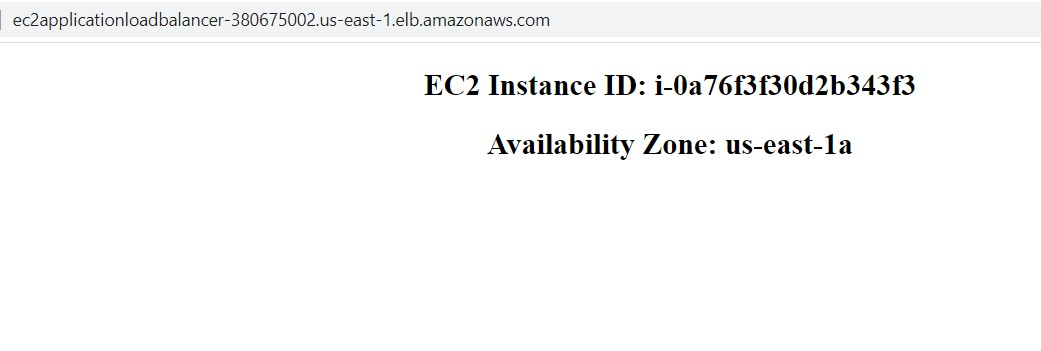
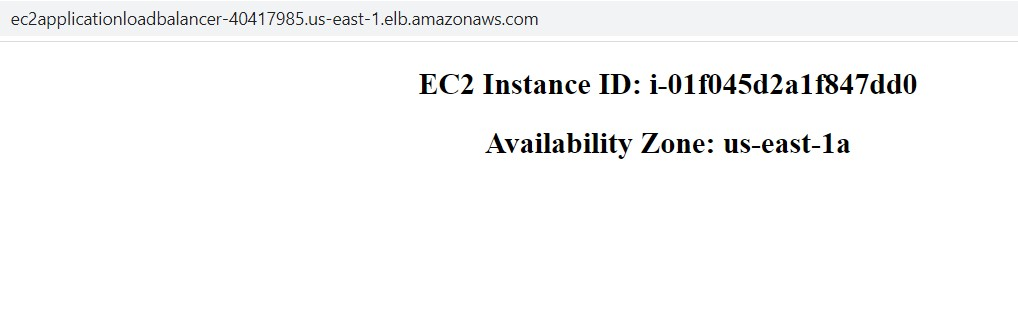
Lab 19

Changed region(s): [[0.3959, 0.2167, 0.9136, 0.3096], [0.4568, 0.3715, 0.8527, 0.4954], [0.0, 0.031, 0.5481, 0.0929]]

diff --git a/Lab-19/README-Lab19.md b/Lab-19/README-Lab19.md
@@ -3,7 +3,8 @@
 <br>
 
 ### Objetivo: 
-* Configuración de los "Routing Policies Latency & Weighted" en Route 53
+* Configuración del "Routing Policies Latency" en Route 53
+* Configuración del "Routing Policies Weighted" en Route 53
 
 ### Tópico:
 * Networking
@@ -19,7 +20,7 @@
 
 ---
 
-### A - Configuración de los "Routing Policies Latency & Weighted" en Route 53
+### A - Configuración del "Routing Policies Latency" en Route 53
 
 <br>
 
@@ -62,13 +63,220 @@ aws cloudformation create-stack --stack-name lab19-vpc-ec2-alb-paris --template-
 <br>
 
 
-8. Accedemos al servicio de Route53
+8. Accedemos al servicio de Route53, accedemos a nuestro "Hosted Zones" configurado. Este laboratorio usará "jorge-barreto.com". Dar clic en el botón "Create Record". 
+
+<br>
+
+<img src="images/Lab19_03.jpg">
+
+<br>
+
+<img src="images/Lab19_03.jpg">
+
+<br>
+
+9. Seleccionamos/ingresamos las siguientes configuraciones. Se realizará una configuración para la región N.Virginia y otra configuración para la región de París. Guardar los cambios.
+
+    * **N.Virginia**
+        * Record name: latency.jorge-barreto.com
+        * Record Type: A - Routes traffic to an IPv4 address and some AWS resources
+        * Alias: On
+        * Route traffic to: Alias to Application and Classic Load Balancer
+            * US East (N.Virginia) [us-east-1]
+            * Seleccionar $DNS_Name_ALB de la región N.Virginia
+        * Routing Policy: Latency
+        * Region: US East (N.Virginia)
+        * Evaluate target health: Off
+        * Record ID: us-east-1
+
+    * **Paris**
+        * Record name: latency.jorge-barreto.com
+        * Record Type: A - Routes traffic to an IPv4 address and some AWS resources
+        * Alias: On
+        * Route traffic to: Alias to Application and Classic Load Balancer
+            * Europe (Paris) [eu-west-3]
+            * Seleccionar $DNS_Name_ALB de la región N.Virginia
+        * Routing Policy: Latency
+        * Region: Europe (Paris)
+        * Evaluate target health: Off
+        * Record ID: eu-west-3
+
+<br>
+
+<img src="images/Lab19_04.jpg">
+
+<br>
+
+<img src="images/Lab19_05.jpg">
+
+<br>
+
+<img src="images/Lab19_06.jpg">
+
+<br>
+
+10. Ingresamos a la página web "Proton VPN" [https://protonvpn.com/es_la/] y nos creamos una cuenta. Una vez logueados desde la cuenta previamente creada, descargamos el instalador adeacuado. Nos logueamos y accedemos a la aplicación desde nuestras laptops.
+
+<br>
+
+<img src="images/Lab19_07.jpg">
+
+<br>
 
 
+11. Usando "Proto VPN", activamos la VPN y nos conectamos a un "United States". Luego, desde la web, accedemos a la URL registrada en Route53: "latency.jorge-barreto.com". Accedemos a la aplicación varias veces y observamos que el resultado de nuestra web corresponde al servicio de N.Virginia.
+
+<br>
+
+<img src="images/Lab19_08.jpg">
+
+<br>
+
+<img src="images/Lab19_09.jpg">
+
+<br>
+
+12. Nos desconectamos a "United States" y nos conectamos a "Netherlands". Luego, desde la web, accedemos nuevamente a la URL registrada en Route53: "latency.jorge-barreto.com". Accedemos a la aplicación varias veces y observamos que el resultado de nuestra web corresponde al servicio de Paris.  Consultado la URL "latency.jorge-barreto.com" validamos que nuestra aplicación responde de manera distinta, esta respuesta dependerá del país en donde nos encontremos conectados desde la VPN. Desactivamos la VPN.
+
+<br>
+
+<img src="images/Lab19_08.jpg">
+
+<br>
+
+<img src="images/Lab19_09.jpg">
+
+<br>
+
+---
+
+### B - Configuración del "Routing Policies Weighted" en Route 53
+
+<br>
 
 
+13. Accedemos al servicio de Route53, accedemos a nuestro "Hosted Zones" configurado. Este laboratorio usará "jorge-barreto.com". Dar clic en el botón "Create Record". 
+
+<br>
+
+<img src="images/Lab19_03.jpg">
+
+<br>
+
+<img src="images/Lab19_03.jpg">
+
+<br>
+
+14. Seleccionamos/ingresamos las siguientes configuraciones. Se realizará una configuración para la región N.Virginia y otra configuración para la región de París. Guardar los cambios.
+
+    * **N.Virginia**
+        * Record name: weighted.jorge-barreto.com
+        * Record Type: A - Routes traffic to an IPv4 address and some AWS resources
+        * Alias: On
+        * Route traffic to: Alias to Application and Classic Load Balancer
+            * US East (N.Virginia) [us-east-1]
+            * Seleccionar $DNS_Name_ALB de la región N.Virginia
+        * Routing Policy: Weighted
+        * Weight: 10
+        * Evaluate target health: Off
+        * Record ID: us-east-1
+
+    * **Paris**
+        * Record name: weighted.jorge-barreto.com
+        * Record Type: A - Routes traffic to an IPv4 address and some AWS resources
+        * Alias: On
+        * Route traffic to: Alias to Application and Classic Load Balancer
+            * Europe (Paris) [eu-west-3]
+            * Seleccionar $DNS_Name_ALB de la región N.Virginia
+        * Routing Policy: Weighted
+        * Weight: 30
+        * Evaluate target health: Off
+        * Record ID: eu-west-3
+
+<br>
+
+<img src="images/Lab19_10.jpg">
+
+<br>
+
+<img src="images/Lab19_11.jpg">
+
+<br>
+
+<img src="images/Lab19_06.jpg">
+
+<br>
+
+15. Ingresamos a nuestra instancia de Cloud9 y ejecutamos el siguiente comando. Obtendremos los siguientes resultados. Analizamos la sección "ANSWER SECTION" y buscaremos las IP Públicas resultantes en la sección "Network Interface" del servicio EC2. Se validará que las IP Públicas mostradas corresponden al balanceador de aplicaciones de la zona de N.Virginia y de Paris respectivamente. Consultado la URL "weighted.jorge-barreto.com" validamos que nuestra aplicación muestra distinto contenido. En vez del comando "dig" podremos usar la siguiente aplicación "http://www.kloth.net/services/nslookup.php" 
+
+
+```bash
+dig weighted.jorge-barreto.com
+```
+
+```bash
+#Primer tipo de resultado
+; <<>> DiG 9.11.3-1ubuntu1.17-Ubuntu <<>> weighted.jorge-barreto.com
+;; global options: +cmd
+;; Got answer:
+;; ->>HEADER<<- opcode: QUERY, status: NOERROR, id: 35729
+;; flags: qr rd ra; QUERY: 1, ANSWER: 2, AUTHORITY: 0, ADDITIONAL: 1
+
+;; OPT PSEUDOSECTION:
+; EDNS: version: 0, flags:; udp: 65494
+;; QUESTION SECTION:
+;weighted.jorge-barreto.com.    IN      A
+
+;; ANSWER SECTION:
+weighted.jorge-barreto.com. 1   IN      A       52.47.177.65
+weighted.jorge-barreto.com. 1   IN      A       35.181.123.137
+
+;; Query time: 0 msec
+;; SERVER: 127.0.0.53#53(127.0.0.53)
+;; WHEN: X X X X:X:X UTC X
+;; MSG SIZE  rcvd: 87
+```
+
+```bash
+#Segundo tipo de resultado
+; <<>> DiG 9.11.3-1ubuntu1.17-Ubuntu <<>> weighted.jorge-barreto.com
+;; global options: +cmd
+;; Got answer:
+;; ->>HEADER<<- opcode: QUERY, status: NOERROR, id: 50074
+;; flags: qr rd ra; QUERY: 1, ANSWER: 2, AUTHORITY: 0, ADDITIONAL: 1
+
+;; OPT PSEUDOSECTION:
+; EDNS: version: 0, flags:; udp: 65494
+;; QUESTION SECTION:
+;weighted.jorge-barreto.com.    IN      A
+
+;; ANSWER SECTION:
+weighted.jorge-barreto.com. 60  IN      A       54.162.42.27
+weighted.jorge-barreto.com. 60  IN      A       3.210.177.190
+
+;; Query time: 3 msec
+;; SERVER: 127.0.0.53#53(127.0.0.53)
+;; WHEN: X X X X:X:X UTC X
+;; MSG SIZE  rcvd: 87
+```
+
+
+<br>
+
+<img src="images/Lab19_15.jpg">
+
+<br>
+
+<img src="images/Lab19_16.jpg">
+
+<br>
+
+
+---
 
 ### Eliminación de recursos
+
+<br>
 
 ```bash
 aws cloudformation delete-stack --stack-name lab19-vpc-ec2-alb-nvirginia --region us-east-1
